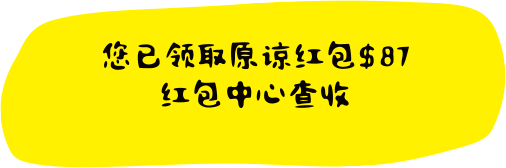
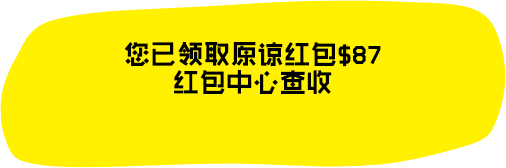
MOD:forgiveme上线

Changed region(s): [[0.1779, 0.2381, 0.83, 0.6548]]

diff --git a/client/scripts/bd/forgive/web.js b/client/scripts/bd/forgive/web.js
@@ -43,9 +43,8 @@ $(function () {
   // 一键原谅
   $('.forgive__btn').click(function () {
     layer.load(0, { shade: false }); //0代表加载的风格，支持0-2
-    publicRequest('receiveRedbag', 'PUT', { id: 135 }).then(function (data) {
+    publicRequest('receiveRedbag', 'PUT', { id: 90 }).then(function (data) {
       layer.closeAll()
-      console.log(data)
       if (data.is_succ) {
         layer.open(
           $.extend(openCfg, {

diff --git a/client/styles/bd/forgive/forgive.scss b/client/styles/bd/forgive/forgive.scss
@@ -51,11 +51,11 @@
   &.nofit {
     .msg {
       position: absolute;
-      background: url(/images/bd_forgive/nofit_bg.png) no-repeat;
+      background: url('/images/bd_forgive/nofit_bg.png') no-repeat;
       background-size: 100%;
       width: 100%;
       height: 100%;
-      line-height: 130px;
+      padding-top: 40px;
       font-weight: 800;
       font-size: 24px;
       font-family: 'FontLive';

diff --git a/client/scripts/bd/forgive/h5.js b/client/scripts/bd/forgive/h5.js
@@ -23,7 +23,7 @@ $(function () {
     //   content: $('.layer_content.sorry').html()
     // });
     layer.open({type: 2});
-    publicRequest('receiveRedbag', 'PUT', {id: 135}).then(function (data) {
+    publicRequest('receiveRedbag', 'PUT', {id: 90}).then(function (data) {
       layer.closeAll()
       console.log(data)
       if(data.is_succ){

diff --git a/client/styles/bd/forgive/m_forgive.scss b/client/styles/bd/forgive/m_forgive.scss
@@ -49,10 +49,10 @@
       background-size: 100%;
       width: 100%;
       height: 5rem;
-      line-height: 4.5rem;
       font-weight: 800;
       font-size: 1rem;
       font-family: 'FontLive';
+      padding: 1rem 0.5rem;
     }
   }
   .call-waiter {
